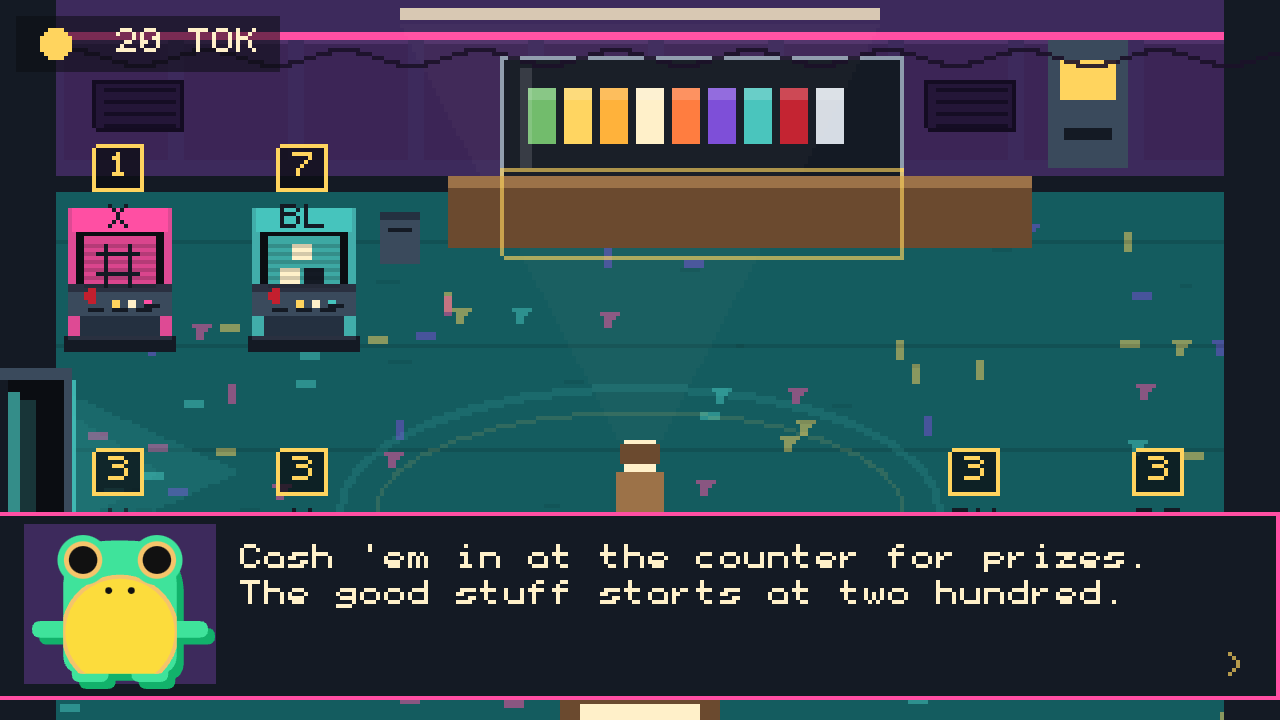
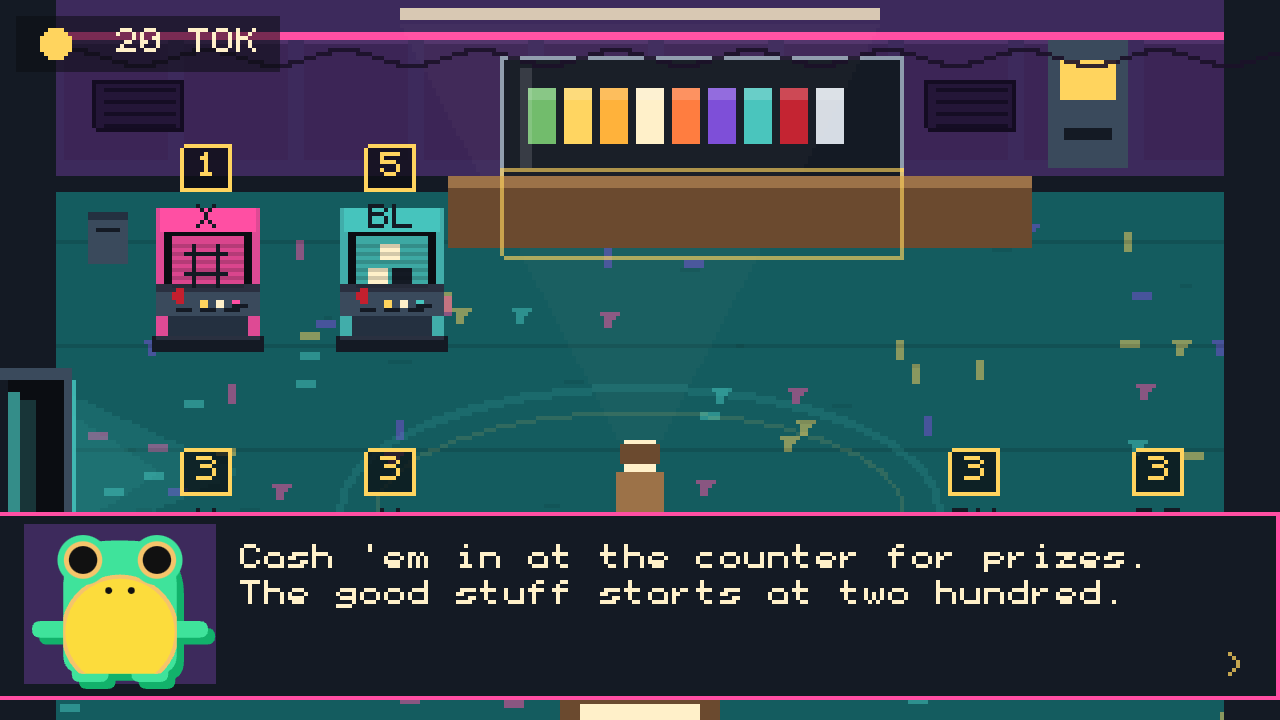
Room to jump in, five tokens a go, and a doorway you can get to
FALLING BLOCKS IS 5 IN AND 10 OUT, and it is a wider, kinder shaft.  TWELVE
columns rather than ten, because the shaft is the room to move in and at ten
the four or five pieces in the air covered most of the floor between them —
a frog with nowhere to stand is not being asked to play well, he is being
asked to be lucky.  A piece every 1250 ms instead of 1150.  A hop peaks at
47 pixels, very nearly four rows of the pile, so the frog climbs under his
own steam instead of waiting for something to be jumped off.  The ledge
comes down to twenty rows.  A scripted player reaches the top around the
35-second mark in four runs out of five, where before it was one in two.

THE HUB'S LEFT COLUMN STANDS AT 52, NOT 30.  The way through to the back
room is an opening in the left wall between y 95 and 141, and a cabinet 26
pixels wide from 17 stood in it — took the light coming out of the doorway,
and put its own click zone over the door's.  Both rows moved together so the
grid stays a grid; the back room's left column has always been at 48 for
exactly this reason.  The bin and the plant move with them.

ENTER IS OFF THE CARDS.  Frog Cross and Car Chase both listed a key that
does nothing until there is something to bank, and both already say so on
the HUD the moment there is: `[ENTER] BANK n TOKENS`, `[ENTER] PULL OVER FOR
n TOKENS`, in the game, where the player is when the choice is theirs.

Harness: the tests stop copying cabinet positions out of content.ts.  The
[…]

Changed region(s): [[0.0312, 0.1833, 0.375, 0.4889], [0.2188, 0.6111, 0.3438, 0.7028], [0.0625, 0.6111, 0.1875, 0.7028]]

diff --git a/src/minigames/fallingblocks.ts b/src/minigames/fallingblocks.ts
@@ -1,5 +1,5 @@
 /**
- * FALLING BLOCKS.  Hard — 7 tokens in, 15 out.
+ * FALLING BLOCKS.  Hard — 5 tokens in, 10 out.
  *
  * A TETRIS WELL WITH A FROG LOOSE IN IT.  Four-cell pieces — the seven shapes,
  * in random turns — drift down a ten-column shaft and pile up where they land.
@@ -39,8 +39,16 @@ const ID = 'fallingblocks' as const;
 /** A minute in the well.  The countdown is on screen the whole time. */
 export const ROUND_MS = 60_000;
 
-/** The shaft: ten columns, centred, on a 16x12 cell. */
-const COLS = 10;
+/**
+ * The shaft: TWELVE columns, centred, on a 16x12 cell.
+ *
+ * Twelve rather than ten because the shaft is the room to move in.  With ten,
+ * four or five pieces in the air covered most of the floor between them and a
+ * frog with nowhere to stand is not being asked to play well, he is being
+ * asked to be lucky.  Two more columns is thirty-two pixels of somewhere else
+ * to be, every second of the round.
+ */
+const COLS = 12;
 const BW = 16;
 const BH = 12;
 const SHAFT_W = COLS * BW;
@@ -53,22 +61,28 @@ const TOP_SY = 34;
 const VIEW_H = FLOOR_SY - TOP_SY;
 
 /**
- * How high the ledge is, in world pixels above the floor — twenty-five rows.
+ * How high the ledge is, in world pixels above the floor — twenty rows.
  *
- * Tuned against the pile rather than against a perfect run: fifty pieces come
- * down in the minute, four cells each, and they land uneven, so the surface of
- * the pile ends the round somewhere north of thirty rows.  Twenty-five is the
- * ledge.  A frog who survives the minute on top of the pile therefore arrives
- * with time in hand; a frog who spends it running along the bottom does not.
- * Surviving is the game — the height is the clock you are measured against.
+ * Tuned against the pile rather than against a perfect run.  The pile is the
+ * lift and the jump is the climb: a frog can take four rows off the top of a
+ * hop, so twenty rows is a handful of good jumps above wherever the pile has
+ * got to.  A frog who survives the minute on top of the pile arrives with time
+ * in hand, and one who spends it running along the bottom does not.  Surviving
+ * is the game — the height is the clock you are measured against.
  */
-export const GOAL_H = 300;
+export const GOAL_H = 240;
 
 /** The frog. */
 const PW = 10;
 const PH = 12;
 const RUN = 80;
-const JUMP_V = 192;
+/**
+ * A hop peaks at 47 pixels, which is very nearly four rows of the pile.  It
+ * used to be three and a quarter, which meant most steps up the pile had to
+ * wait for a piece to come and be jumped off — the climb is the point, so the
+ * frog gets to make it under his own steam.
+ */
+const JUMP_V = 210;
 const GRAVITY = 470;
 
 /**
@@ -76,12 +90,13 @@ const GRAVITY = 470;
  *
  * These two are the fairness dial, not the difficulty dial.  A piece crosses
  * the shaft in about five seconds, which is how long the warning lasts, and
- * one goes every one-and-a-bit seconds, which puts four or five in the air at
- * once.  Faster or more often and the frog gets boxed in by pieces he had no
- * way to be somewhere else for, which is not hard, it is arbitrary.
+ * one goes every one-and-a-quarter seconds, which puts four in the air at once
+ * across twelve columns.  Faster or more often and the frog gets boxed in by
+ * pieces he had no way to be somewhere else for, which is not hard, it is
+ * arbitrary.
  */
 const FALL_V = 30;
-const DROP_MS = 1150;
+const DROP_MS = 1250;
 
 /**
  * The seven shapes, each as the cells it fills: [column offset, row offset],
@@ -267,7 +282,7 @@ export const fallingBlocks: MinigameModule = {
   title: 'FALLING BLOCKS',
   music: 'game_fallingblocks',
   rules: 'climb the pile, do not get crushed',
-  payoutNote: 'WIN: 15 TOKENS',
+  payoutNote: 'WIN: 10 TOKENS',
   tutorial: {
     objective: [
       'TETRIS PIECES FALL AND PILE UP.',
@@ -574,7 +589,7 @@ function jump(): void {
 function aimColumn(): number {
   if (Phaser.Math.Between(0, 3) === 0) return Phaser.Math.Between(0, COLS - 1);
   const here = Phaser.Math.Clamp(Math.floor((px - SHAFT_L) / BW), 0, COLS - 1);
-  return Phaser.Math.Clamp(here + Phaser.Math.Between(-3, 3), 0, COLS - 1);
+  return Phaser.Math.Clamp(here + Phaser.Math.Between(-4, 4), 0, COLS - 1);
 }
 
 /** Let one go: a random shape in a random turn, clamped inside the shaft. */

diff --git a/src/game/content.ts b/src/game/content.ts
@@ -120,16 +120,24 @@ export const CABINETS: CabinetDef[] = [
   // ---- the front room: everything that costs one to three tokens
   // A token in, two out: you win one.  Three out was a 3x on the cheapest
   // games in the building and the only positive-EV corner of the floor.
-  { id: 'tictactoe', title: 'TIC-TAC-TOE', tier: 'easy', cost: 1, reward: 2, x: 30, y: 88, color: 0xff4fa3, symbol: 'X', motif: 'grid' },
-  // Seven in, fifteen out, in the slot Snakes & Ladders used to stand in: the
-  // pieces fall by themselves and the crush is instant, so it is priced with
-  // the hard cabinets rather than with the three-token row it started in.
-  { id: 'fallingblocks', title: 'FALLING BLOCKS', tier: 'hard', cost: 7, reward: 15, x: 76, y: 88, color: 0x46c4bd, symbol: 'BL', motif: 'blocks' },
+  { id: 'tictactoe', title: 'TIC-TAC-TOE', tier: 'easy', cost: 1, reward: 2, x: 52, y: 88, color: 0xff4fa3, symbol: 'X', motif: 'grid' },
+  // Five in, ten out, in the slot Snakes & Ladders used to stand in: the pieces
+  // fall by themselves and the crush is instant, so it is priced with the hard
+  // cabinets rather than with the three-token row it started in — but it is a
+  // minute, not the four the seven-token row asks for.
+  { id: 'fallingblocks', title: 'FALLING BLOCKS', tier: 'hard', cost: 5, reward: 10, x: 98, y: 88, color: 0x46c4bd, symbol: 'BL', motif: 'blocks' },
   // The bottom row: two either side of the front door, in line with the two
   // above.  Nothing sits under the change machine on the right wall, because a
   // cabinet's click zone up there swallows every attempt to use it.
-  { id: 'hoops', title: 'HOOPS', tier: 'medium', cost: 3, reward: 6, x: 30, y: 164, color: 0xff7a3d, symbol: 'H', motif: 'ball' },
-  { id: 'whack', title: 'WHACK-A-FROG', tier: 'medium', cost: 3, reward: 6, x: 76, y: 164, color: 0x6fbb6a, symbol: 'W', motif: 'mallet' },
+  //
+  // THE LEFT COLUMN STANDS AT 52, NOT 30.  The way through to the back room is
+  // an opening in the left wall between y 95 and 141, and a cabinet at 30 is
+  // 26 pixels wide from 17 — it stood in the doorway, took the light coming
+  // out of it, and put its own click zone over the door's.  Both rows moved
+  // together so the grid stays a grid; the back room's left column has always
+  // been at 48 for the same reason.
+  { id: 'hoops', title: 'HOOPS', tier: 'medium', cost: 3, reward: 6, x: 52, y: 164, color: 0xff7a3d, symbol: 'H', motif: 'ball' },
+  { id: 'whack', title: 'WHACK-A-FROG', tier: 'medium', cost: 3, reward: 6, x: 98, y: 164, color: 0x6fbb6a, symbol: 'W', motif: 'mallet' },
   // Three in, six out like the rest of the three-token row: beating Froggy is
   // worth the same as clearing any other medium cabinet.
   { id: 'bowling', title: 'BOWLING', tier: 'medium', cost: 3, reward: 6, x: 244, y: 164, color: 0xb9884f, symbol: 'BW', motif: 'pins' },

diff --git a/src/scenes2d/ArcadeHub.ts b/src/scenes2d/ArcadeHub.ts
@@ -90,12 +90,15 @@ export class ArcadeHub extends Phaser.Scene {
       // used to stand in the approach to the change machine, which is somewhere
       // the player has to be able to get to.
       props: [
-        { x: 95, y: 66, kind: 'bin' },
-        // Bottom-left of the floor, a dozen pixels clear of the last cabinet
-        // in the row.  Wedged into the gap between two machines it overlapped
-        // one or the other at every x that fitted, because the gap is twenty
+        // Under the left-hand vent, in the strip of back wall the doorway does
+        // not reach and no cabinet stands on.  At 95 it ended up behind a
+        // machine and at 117 half inside the counter.
+        { x: 22, y: 66, kind: 'bin' },
+        // Bottom of the floor, clear of the last cabinet in the row by a dozen
+        // pixels.  Wedged into the gap between two machines it overlapped one
+        // or the other at every x that fitted, because the gap is twenty
         // pixels wide and the plant is seventeen.
-        { x: 104, y: 170, kind: 'plant' },
+        { x: 126, y: 170, kind: 'plant' },
       ],
       // The prize case owns 126-226 of the back wall and the change machine
       // 262-282; the vents go in what is left of it.

diff --git a/src/minigames/frogcross.ts b/src/minigames/frogcross.ts
@@ -102,8 +102,12 @@ export const frogCross: MinigameModule = {
     controls: [
       ['W A S D', 'HOP'],
       ['ARROWS', 'HOP'],
-      ['ENTER', 'BANK WHAT YOU HAVE'],
     ],
+    // ENTER banks what you have, and it is NOT listed here.  It does nothing
+    // until there is something to bank, and the moment there is, the HUD says
+    // `[ENTER] BANK n TOKENS` in the game itself — which is where a player is
+    // when the choice is in front of them.  On the card, before a single
+    // crossing, it was a key with nothing behind it.
   },
   payoutNote: 'WIN: 15+',
 

diff --git a/src/minigames/carchase.ts b/src/minigames/carchase.ts
@@ -263,8 +263,10 @@ export const carChase: MinigameModule = {
       ['A / D', 'STEER'],
       ['W / S', 'SPEED UP OR EASE OFF'],
       ['SPACE', 'NITRO'],
-      ['ENTER', 'BANK THE CASH'],
     ],
+    // ENTER pulls over with the cash, and it is NOT listed here.  It does
+    // nothing until there is cash to pull over with, and the moment there is,
+    // the HUD says `[ENTER] PULL OVER FOR n TOKENS` on the road itself.
   },
   payoutNote: 'WIN: 10+',
 

diff --git a/docs/PRD-Froggy-Arcade.md b/docs/PRD-Froggy-Arcade.md
@@ -471,7 +471,7 @@ The main loop. A single room, 3/4 view, walked with WASD.
         │                                          │
         │            · player spawn ·              │
         │                                          │
-        │  ▣ FALLING BLOCKS (7)      ▣ WHACK (3)   │
+        │  ▣ FALLING BLOCKS (5)      ▣ WHACK (3)   │
         │                                          │
         │  ▣ AIR HOCKEY (1)      ▣ CHOMP-MAN (5)   │
         │                                          │
@@ -807,7 +807,7 @@ Measured over 200 automated runs per game (scripted competent player).
 | Game | Tier | Cost | Reward | Target win rate | Typical length |
 |---|---|---:|---:|---|---|
 | Tic-Tac-Toe | Easy | 1 | 2 | 45–60% | 25 s |
-| Falling Blocks | Hard (long) | 7 | 15 | 40–55% | 60 s |
+| Falling Blocks | Hard | 5 | 10 | 45–60% | 40 s |
 | Air Hockey | Hard | 5 | 10 | 45–60% | 70 s |
 | Basketball Hoops | Medium | 3 | 6 | 40–55% | 60 s |
 | Whack-a-Frog | Medium | 3 | 6 | 40–55% | 40 s |
@@ -831,7 +831,7 @@ not in this table.
 - **A draw refunds the token** (MG-9). It is neither a win nor a loss: the entry cost goes back exactly once and nothing is paid on top of it. The board says so before a move is made (`YOU ARE X — A DRAW REFUNDS`), the result card says `DRAW — TOKEN BACK`, and the shell's card reads `A TIE — 1 BACK`. This replaces the original "a draw is a loss", which charged a token for a game nobody won.
 - Win: three in a row for the player. Lose: AI three in a row.
 
-### 9.3 Falling Blocks — Hard (long), 7 → 15
+### 9.3 Falling Blocks — Hard, 5 → 10
 
 **A Tetris well with a frog loose in it.** Four-cell pieces — the seven shapes,
 in random turns — drift down a ten-column shaft and pile up where they land.
@@ -839,11 +839,11 @@ Nobody steers the pieces. The frog is the only thing the player steers, and the
 ledge at the top of the shaft is the only thing they are trying to reach.
 **60 seconds.**
 
-- Ten columns on a 16×12 cell. A piece every **1150 ms**, falling at **30 px/s**, which is about five seconds to cross the shaft and four or five in the air at once.
+- **Twelve columns** on a 16×12 cell — the shaft is the room to move in, and at ten the four or five pieces in the air covered most of the floor between them. A piece every **1250 ms**, falling at **30 px/s**, which is about five seconds to cross the shaft and four in the air at once.
 - **The pile is the staircase.** A piece that comes to rest becomes terrain, exactly where it stopped — gaps and all, the way a well full of tetrominoes looks. The walkable surface of a column is the top of its highest cell, so a cave under a bridged S is a cave you can see and never fall into. The frog climbs by staying on top of the pile and by jumping onto pieces still in the air, which carry him down while he lines up the next hop.
 - **A piece will crush him, and that is the round.** Caught between a piece and the pile there is nowhere to put him: `CRUSHED`, and the run is over. Caught in open air it only shoves him down until he can get out from under. He is never moved anywhere he did not walk, jump or get pushed to — no snapping, no teleporting out of trouble.
 - **Nothing lands without warning.** Every piece in the air draws a hollow **ghost** of itself where it will come to rest, recomputed each frame against the pile as it currently stands, and the frog flashes with a `MOVE!` banner the moment a ghost is sitting on him. Pieces are aimed within three columns of the frog three times in four (the fourth goes anywhere), so standing in a corner is not a plan — but the warning is always there and always seconds long.
-- The ledge is **300 px** up, twenty-five rows. Fifty pieces land in the minute and they land uneven, so a frog who survives on top of the pile arrives with time in hand and a frog who spends the minute running along the bottom does not. Surviving is the game; the height is the clock they are measured against.
+- The ledge is **240 px** up, twenty rows, and a hop peaks at **47 px** — very nearly four rows, so the frog climbs under his own steam instead of waiting for a piece to be jumped off. The pile is the lift and the jump is the climb. Surviving is the game; the height is the clock they are measured against. A scripted player who dodges the imminent ghosts reaches the ledge around the 35-second mark in roughly four runs in five.
 - Left/right and jump (`A`/`D`/arrows, `SPACE`/`W`/`UP`). Custom tune (`game_fallingblocks`) and sfx for the jump, a piece coming to rest and the summit.
 
 ### 9.4 Air Hockey — Hard, 5 → 10
@@ -1062,8 +1062,8 @@ re-deducts the entry cost when it pays:
 |---|---|---:|---:|---:|
 | Easy | Tic-Tac-Toe | 1 | 2 | 0 |
 | Medium | Basketball Hoops, Whack-a-Frog, Bowling, Battleship | 3 | 6 | 0 |
-| Hard | Air Hockey, Grudge, Frog vs Lizard | 5 | 10 | 0 |
-| Hard (long) | Chomp-Man, Barrel Climb, Dance Off, Falling Blocks | 7 | 15 | 0 |
+| Hard | Air Hockey, Grudge, Frog vs Lizard, Falling Blocks | 5 | 10 | 0 |
+| Hard (long) | Chomp-Man, Barrel Climb, Dance Off | 7 | 15 | 0 |
 
 Everything up to the five-token row is a **2× on a win**, so expected value is
 negative unless the player wins more than half the time. That pressure is the
@@ -1096,7 +1096,7 @@ Net EV per play = `(p_win × reward) − cost`, where the break-even win rate is
 | Game | p_win (target midpoint) | Cost | EV | Net per play |
 |---|---:|---:|---:|---:|
 | Tic-Tac-Toe | 0.525 | 1 | 1.05 | **+0.05** |
-| Falling Blocks | 0.475 | 7 | 7.13 | **+0.13** |
+| Falling Blocks | 0.525 | 5 | 5.25 | **+0.25** |
 | Basketball Hoops | 0.475 | 3 | 2.85 | **−0.15** |
 | Whack-a-Frog | 0.475 | 3 | 2.85 | **−0.15** |
 | Grudge | 0.375 | 5 | 3.75 | **−1.25** |
